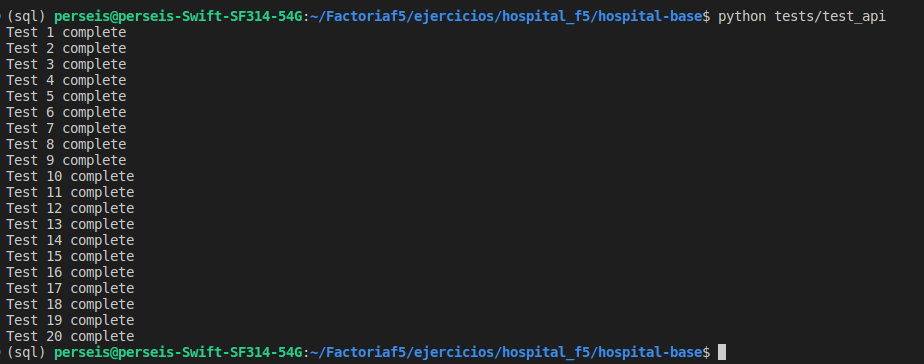
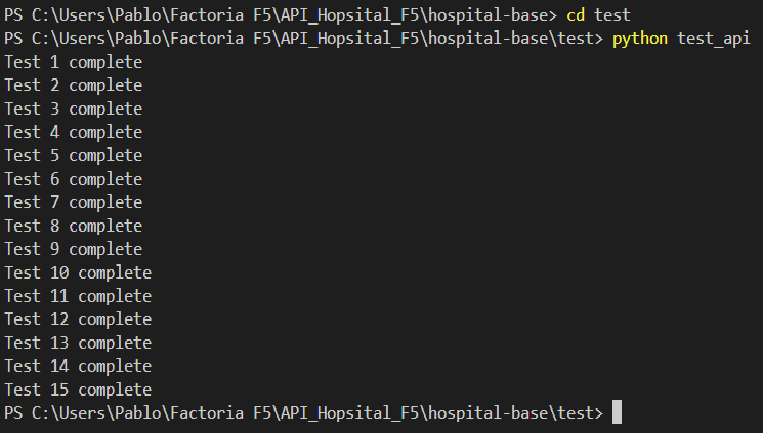
imagenes modificadas del readme

Changed region(s): [[0.0, 0.0, 0.9948, 0.9973]]

diff --git a/README.md b/README.md
@@ -25,7 +25,7 @@ uvicorn main:app
 6. En la terminal le aparecerá un mensaje que dirá **Uvicorn running on direcciónDelServidor** ![Uvicorn running on direcciónServidor](img/uvicorn.png)
 7. Diríjse a la dirección del servidor dada, se abrirá en su navegador predeterminado.\n 8. A la ruta raíz en la que se encuentra añada /docs, **ejemplo: http://127.0.0.1:8000/docs**
 7. En este momento se encuentra en la documentación Swagger de la API, allí encontrará las peticiones que puede hacer al servidor, con su explicación.
-8. Comience a consultar, crear, modificar y eliminar los datos de pacientes, doctores, contactos de pacientes y citas.
+8. Comience a consultar, crear, modificar y eliminar los datos de pacientes, doctores y citas.
 
 ## ***Otras rutas de interés en la API***
 
@@ -33,7 +33,6 @@ Añadiendo al final de la **direcciónDelServidor** (ejemplo: http://127.0.0.1:8
 ```
 /pacientes              En esta página podrá consultar los datos de los pacientes disponibles.
 /doctores               En esta página podrá consultar los datos de los doctores disponibles.
-/contacto_pacientes     En esta página podrá consultar los datos de los contactos disponibles.
 /codigo_cita            En esta página podrá consultar los datos de las citas disponibles.
 ```
 
@@ -46,7 +45,7 @@ python tests/test_api
 Tras ejecutar ese comando debería aparecer una salida mostrando los test completados como la siguiente:
 ![test](img/test.png)
 
-Si alguno de los 20 tests fallaran habría que revisar el error y arreglar el problema antes de empezar a utilizar la API.
+Si alguno de los 15 tests fallaran habría que revisar el error y arreglar el problema antes de empezar a utilizar la API.
 
 
 ## ***¿Para qué puedo utilizar esta API?***
@@ -55,7 +54,7 @@ Esta API le permite al usuario crear, consultar, actualizar y eliminar datos de 
 
 ## ***Esquema UML de las tablas creadas por esta API***
 
-Al ejecutar el programa por primera vez, se crearan en el servidor 4 tablas: paciente, doctor, contacto_paciente y codigo_cita. Estas tablas están relacionadas de la siguiente manera:
+Al ejecutar el programa por primera vez, se crearan en el servidor 3 tablas: paciente, doctor y codigo_cita. Estas tablas están relacionadas de la siguiente manera:
 ![esquemauml](img/esquema.png)
 
 ## ***Tecnología utilizada***
@@ -69,10 +68,10 @@ Al ejecutar el programa por primera vez, se crearan en el servidor 4 tablas: pac
 
 Desarrollado por: 
 
-- Vaneza: Scrum Máster
-- Pablo
-- Christian: Product Owner
-- Nayare
+- Vaneza Flores: Scrum Máster
+- Pablo Ruano
+- Christian Cabrera: Product Owner
+- Nayare Montes
 
 Ejercicio para el bootcamp de Inteligencia Artifical en **Factoría F5**.
 > Contacto: hospitalf5@factoriaf5.org 
